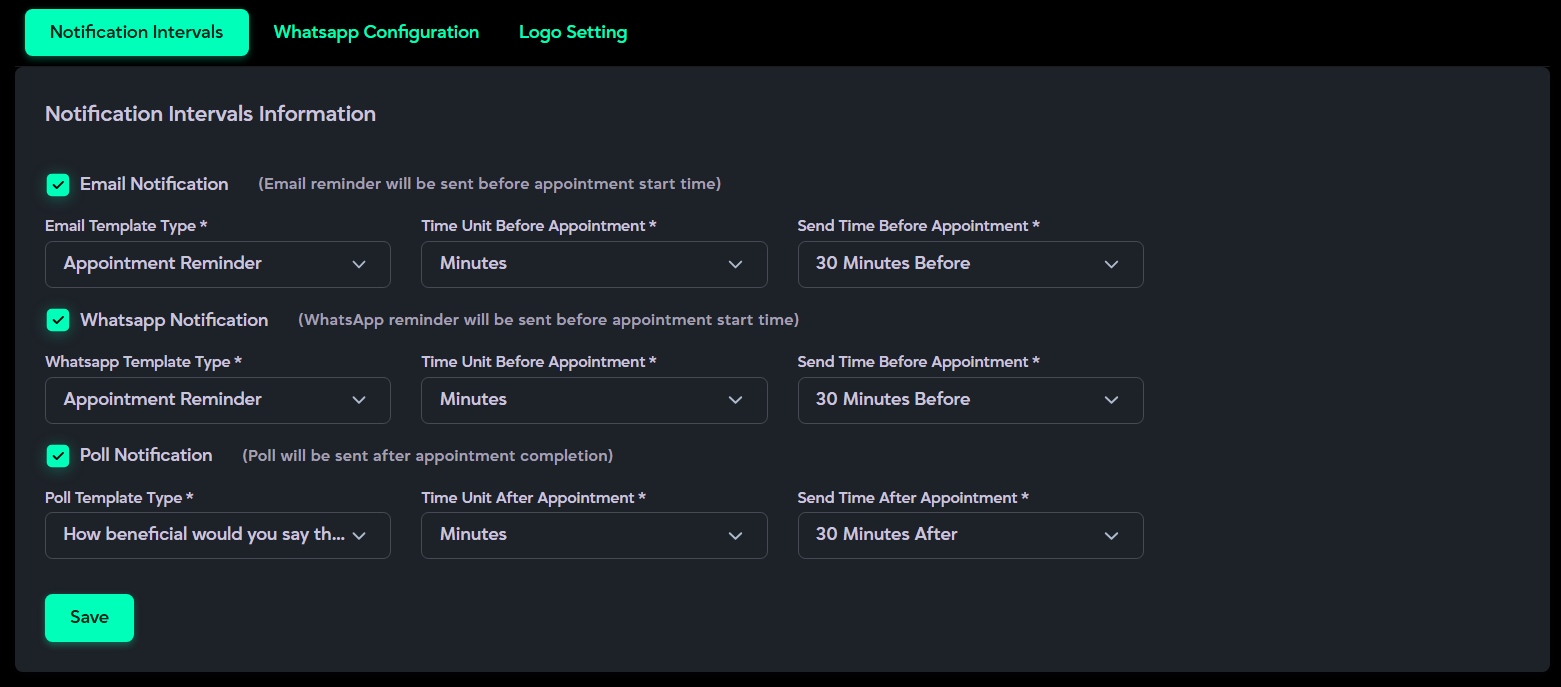
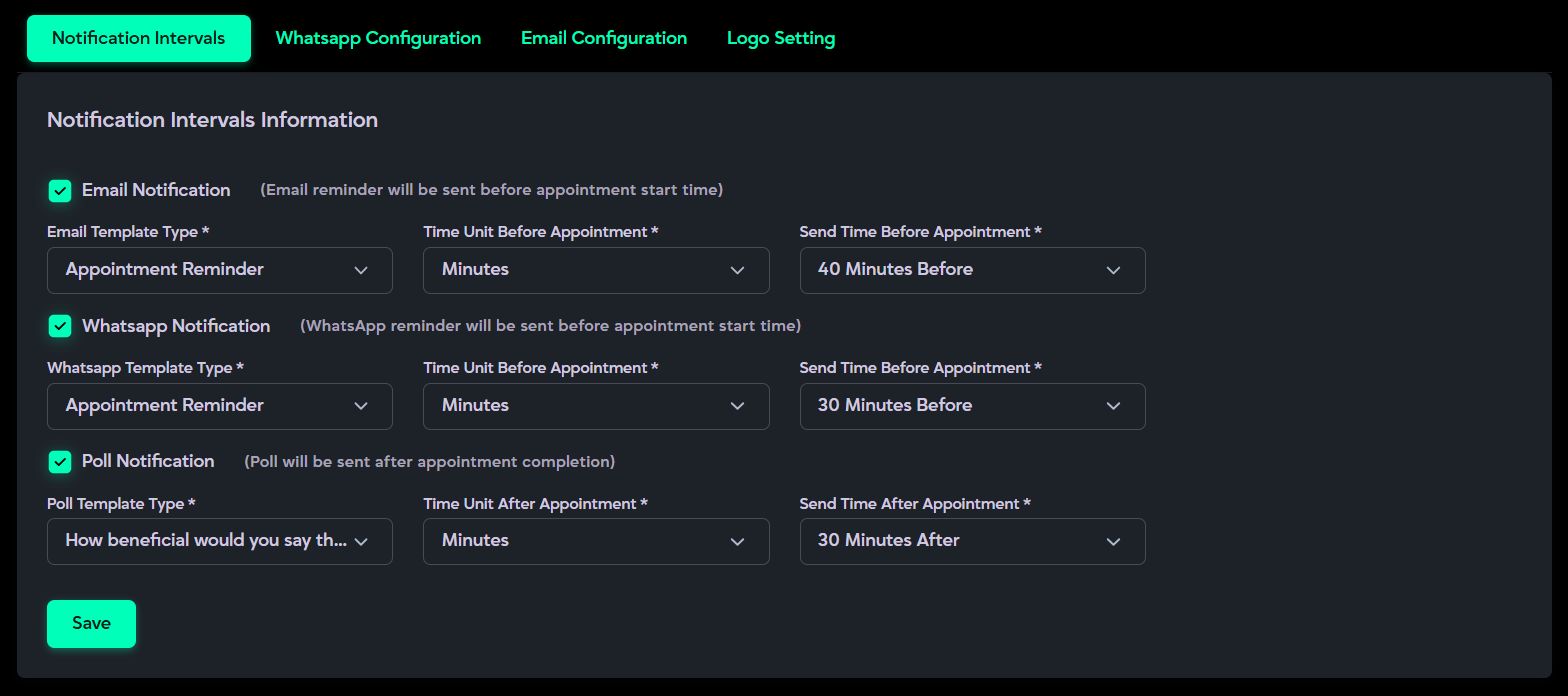
new section added

diff --git a/src/app/content/page.jsx b/src/app/content/page.jsx
@@ -2864,7 +2864,14 @@ const page = () => {
                           </div>
                         </li>
                         <li data-target="6" className="cursor-pointer">
-                          Review key details such as <strong>Serial Number (#), Appointment ID, Patient Name, Email, Phone Number,Appointment Date & Time, Doctor,Department,</strong> and <strong>Status</strong> (Confirmed, Completed, or Canceled).
+                          Review key details such as{" "}
+                          <strong>
+                            Serial Number (#), Appointment ID, Patient Name,
+                            Email, Phone Number,Appointment Date & Time,
+                            Doctor,Department,
+                          </strong>{" "}
+                          and <strong>Status</strong> (Confirmed, Completed, or
+                          Canceled).
                           <div>
                             <img
                               src="assets/image/content/report-6.PNG"
@@ -5445,11 +5452,12 @@ const page = () => {
                         <strong>What it is:</strong>
                       </p>
                       <p>
-                        The <strong>WhatsApp Templates</strong> section contains
-                        pre-written message formats used for communicating with
-                        patients through WhatsApp. These templates are designed
-                        for appointment confirmations, reminders, cancellations,
-                        and other important notifications.
+                        The <strong>WhatsApp Templates </strong> section
+                        contains pre-written message formats used for
+                        communicating with patients through WhatsApp. These
+                        templates are designed for appointment confirmations,
+                        reminders, cancellations, and other important
+                        notifications.
                       </p>
 
                       <p>
@@ -6245,7 +6253,7 @@ const page = () => {
                               </div>
                             </li>
                             <li data-target="2" className="cursor-pointer mb-3">
-                              Click <strong>Add WhatsApp Config</strong>
+                              Click <strong>Add WhatsApp Config </strong>
                               to create a new configuration.
                               <div>
                                 <img
@@ -6340,6 +6348,261 @@ const page = () => {
                         </div>
                       </div>
                     </div>
+
+                    {/* -----------Email configuration */}
+
+                    <h2 className="mt-5">Email Configuration</h2>
+                    <ul
+                      className="nav nav-tabs mt-3"
+                      id="logoTab"
+                      role="tablist"
+                    >
+                      <li className="nav-item" role="presentation">
+                        <button
+                          className="nav-link active"
+                          id="logo-preview-tab"
+                          data-bs-toggle="tab"
+                          data-bs-target="#logo-preview"
+                          type="button"
+                          role="tab"
+                          aria-controls="logo-preview"
+                          aria-selected="true"
+                        >
+                          <i className="ri-eye-line"></i>Preview
+                        </button>
+                      </li>
+                      <li className="nav-item" role="presentation">
+                        <button
+                          className="nav-link"
+                          id="logo-usage-tab"
+                          data-bs-toggle="tab"
+                          data-bs-target="#logo-usage"
+                          type="button"
+                          role="tab"
+                          aria-controls="logo-usage"
+                          aria-selected="false"
+                        >
+                          <span className="material-symbols-outlined">
+                            build
+                          </span>
+                          Usage
+                        </button>
+                      </li>
+                      <li className="nav-item" role="presentation">
+                        <button
+                          className="nav-link"
+                          id="logo-how-tab"
+                          data-bs-toggle="tab"
+                          data-bs-target="#logo-how"
+                          type="button"
+                          role="tab"
+                          aria-controls="logo-how"
+                          aria-selected="false"
+                        >
+                          <span className="material-symbols-outlined">
+                            menu_book
+                          </span>
+                          How to Use
+                        </button>
+                      </li>
+                    </ul>
+
+                    <div
+                      className="tab-content second-content"
+                      id="logoTabContent"
+                    >
+                      <div
+                        className="tab-pane fade show active"
+                        id="logo-preview"
+                        role="tabpanel"
+                        aria-labelledby="logo-preview-tab"
+                      >
+                        <img
+                          src="./assets/image/content/email-config-setting.png"
+                          alt="Logo Settings Preview"
+                        />
+                      </div>
+                      {/*✅ 6. Logo Settings Section */}
+                      <div
+                        className="tab-pane fade"
+                        id="logo-usage"
+                        role="tabpanel"
+                        aria-labelledby="logo-usage-tab"
+                      >
+                        <p>
+                          <strong>What it is:</strong>
+                        </p>
+                        <p>
+                          The <strong>Logo Settings</strong> section allows you
+                          to manage your system’s branding by uploading logos
+                          for both <strong>Light Mode</strong> and{" "}
+                          <strong>Dark Mode</strong>. Your uploaded logo will be
+                          displayed above the sidebar menu for consistent brand
+                          visibility.
+                        </p>
+                        <p>
+                          <strong>Description:</strong>
+                        </p>
+                        <ul className="lists">
+                          <li>
+                            Upload different logos for{" "}
+                            <strong>Light Mode</strong> and{" "}
+                            <strong>Dark Mode</strong> to match the system
+                            theme.
+                          </li>
+                          <li>
+                            Supports <strong>drag-and-drop</strong> or{" "}
+                            <strong>click-to-upload</strong> functionality for
+                            easy logo management.
+                          </li>
+                          <li>
+                            Helps maintain <strong>consistent</strong> and{" "}
+                            <strong>professional branding</strong>
+                            across the entire application interface.
+                          </li>
+                        </ul>
+                      </div>
+                      <div
+                        className="tab-pane fade how-to-use  "
+                        id="logo-how"
+                        role="tabpanel"
+                        aria-labelledby="logo-how-tab"
+                      >
+                        <div className="d-md-flex justify-content-md-between col-9 ">
+                          <div className="col-12 col-md-11 col-lg-7 pb-lg-5">
+                            <p>
+                              <strong>How to Use It:</strong>
+                            </p>
+                            <ul className="lists steps ">
+                              <li data-target="4" className="cursor-pointer">
+                                Click <strong>Add Email Config</strong> to
+                                create a new configuration.
+                                <div>
+                                  <img
+                                    src="./assets/image/content/logo-setting-img.png"
+                                    className="mobile-step-img"
+                                    style={{ objectFit: "contain" }}
+                                  />
+                                </div>
+                              </li>
+                              <li data-target="2" className="cursor-pointer">
+                                Enter your email address in the email field.
+                                <div>
+                                  <img
+                                    src="assets/image/content/dragbox.png"
+                                    className="mobile-step-img"
+                                    style={{ objectFit: "contain" }}
+                                  />
+                                </div>
+                              </li>
+
+                              <strong>
+                                Google App Password Setup (Gmail Users):
+                              </strong>
+                              <p>
+                                Click your profile icon (top right) and open
+                                <strong>Manage Your Google Account</strong>.
+                              </p>
+                              <p>
+                                Go to <strong>Security</strong> and enable{" "}
+                                <strong>2-Step Verification</strong>.
+                              </p>
+                              <ul>
+                                <li data-target="3" className="cursor-pointer">
+                                  Open <strong>App Passwords</strong>, add your
+                                  app name, and generate the password.
+                                  <div>
+                                    <img
+                                      src="assets/image/content/LightDark.png"
+                                      className="mobile-step-img"
+                                      style={{ objectFit: "contain" }}
+                                    />
+                                  </div>
+                                </li>
+                                <li data-target="3" className="cursor-pointer">
+                                  Copy the generated App Password.
+                                  <div>
+                                    <img
+                                      src="assets/image/content/LightDark.png"
+                                      className="mobile-step-img"
+                                      style={{ objectFit: "contain" }}
+                                    />
+                                  </div>
+                                </li>
+                              </ul>
+
+                              <strong>Complete Email Configuration: </strong>
+                              <p>
+                                Paste the App Password into the password field.
+                              </p>
+                              <p>
+                                Add the <strong>SMTP host</strong>, select the{" "}
+                                <strong>Port</strong>, and choose your{" "}
+                                <strong>Email Service Provider</strong>.
+                              </p>
+                              <ul className="lists steps  ">
+                                <li data-target="3" className="cursor-pointer">
+                                  Click <strong>Save</strong> to complete the
+                                  setup.
+                                  <div>
+                                    <img
+                                      src="assets/image/content/LightDark.png"
+                                      className="mobile-step-img"
+                                      style={{ objectFit: "contain" }}
+                                    />
+                                  </div>
+                                </li>
+
+                                <li data-target="3" className="cursor-pointer">
+                                  Once configured, all email notifications and
+                                  reminders will be sent from your email
+                                  address.
+                                  <div>
+                                    <img
+                                      src="assets/image/content/LightDark.png"
+                                      className="mobile-step-img"
+                                      style={{ objectFit: "contain" }}
+                                    />
+                                  </div>
+                                </li>
+                              </ul>
+                            </ul>
+                          </div>
+                          <div className="col-4">
+                            <div className="stack ">
+                              <div>
+                                <img
+                                  src="assets/image/content/Save Changes.png"
+                                  style={{ objectFit: "contain" }}
+                                />
+                              </div>
+                              <div>
+                                <img
+                                  src="assets/image/content/dragbox.png"
+                                  style={{ objectFit: "contain" }}
+                                  alt=""
+                                />
+                              </div>
+                              <div>
+                                <img
+                                  src="assets/image/content/LightDark.png"
+                                  style={{ objectFit: "contain" }}
+                                  alt=""
+                                />
+                              </div>
+                              <div>
+                                <img
+                                  src="assets/image/content/logo-setting-img.png"
+                                  style={{ objectFit: "contain" }}
+                                />
+                              </div>
+                            </div>
+                          </div>
+                        </div>
+                      </div>
+                    </div>
+
+                    {/* -------------------ends here */}
 
                     <h2 className="mt-5">Logo Settings</h2>
                     <ul
@@ -6468,7 +6731,7 @@ const page = () => {
                                 data-target="4"
                                 className="cursor-pointer mb-4"
                               >
-                                Open the <strong>Logo Settings</strong>
+                                Open the <strong>Logo Settings </strong>
                                 subsection.
                                 <div>
                                   <img
@@ -6497,7 +6760,7 @@ const page = () => {
                                 className="cursor-pointer mb-4"
                               >
                                 Upload <strong>separate logos</strong> for
-                                <strong>Light Mode</strong> and{" "}
+                                <strong> Light Mode</strong> and{" "}
                                 <strong>Dark Mode</strong>.
                                 <div>
                                   <img

diff --git a/src/app/page.js b/src/app/page.js
@@ -95,14 +95,14 @@ export default function Home() {
                   </ul>
                   <p className="popins-data-helpex">
                     TalkRight also supports customized outbound email
-                    management. Through the Email Configuration module, clinics
-                    can integrate their own email account into the system. Once
-                    configured, all appointment-related communications such as
-                    confirmations, reminders, cancellations, and other
-                    system-generated notifications will be sent directly from
-                    the clinic’s preferred email address. This will allow
-                    clinics to maintain full control over their communication
-                    identity.
+                    management. Through the <strong>Email Configuration</strong>{" "}
+                    module, clinics can integrate their own email account into
+                    the system. Once configured, all appointment-related
+                    communications such as confirmations, reminders,
+                    cancellations, and other system-generated notifications will
+                    be sent directly from the clinic’s preferred email address.
+                    This will allow clinics to maintain full control over their
+                    communication identity.
                   </p>
 
                   <p className="popins-data-helpex">
